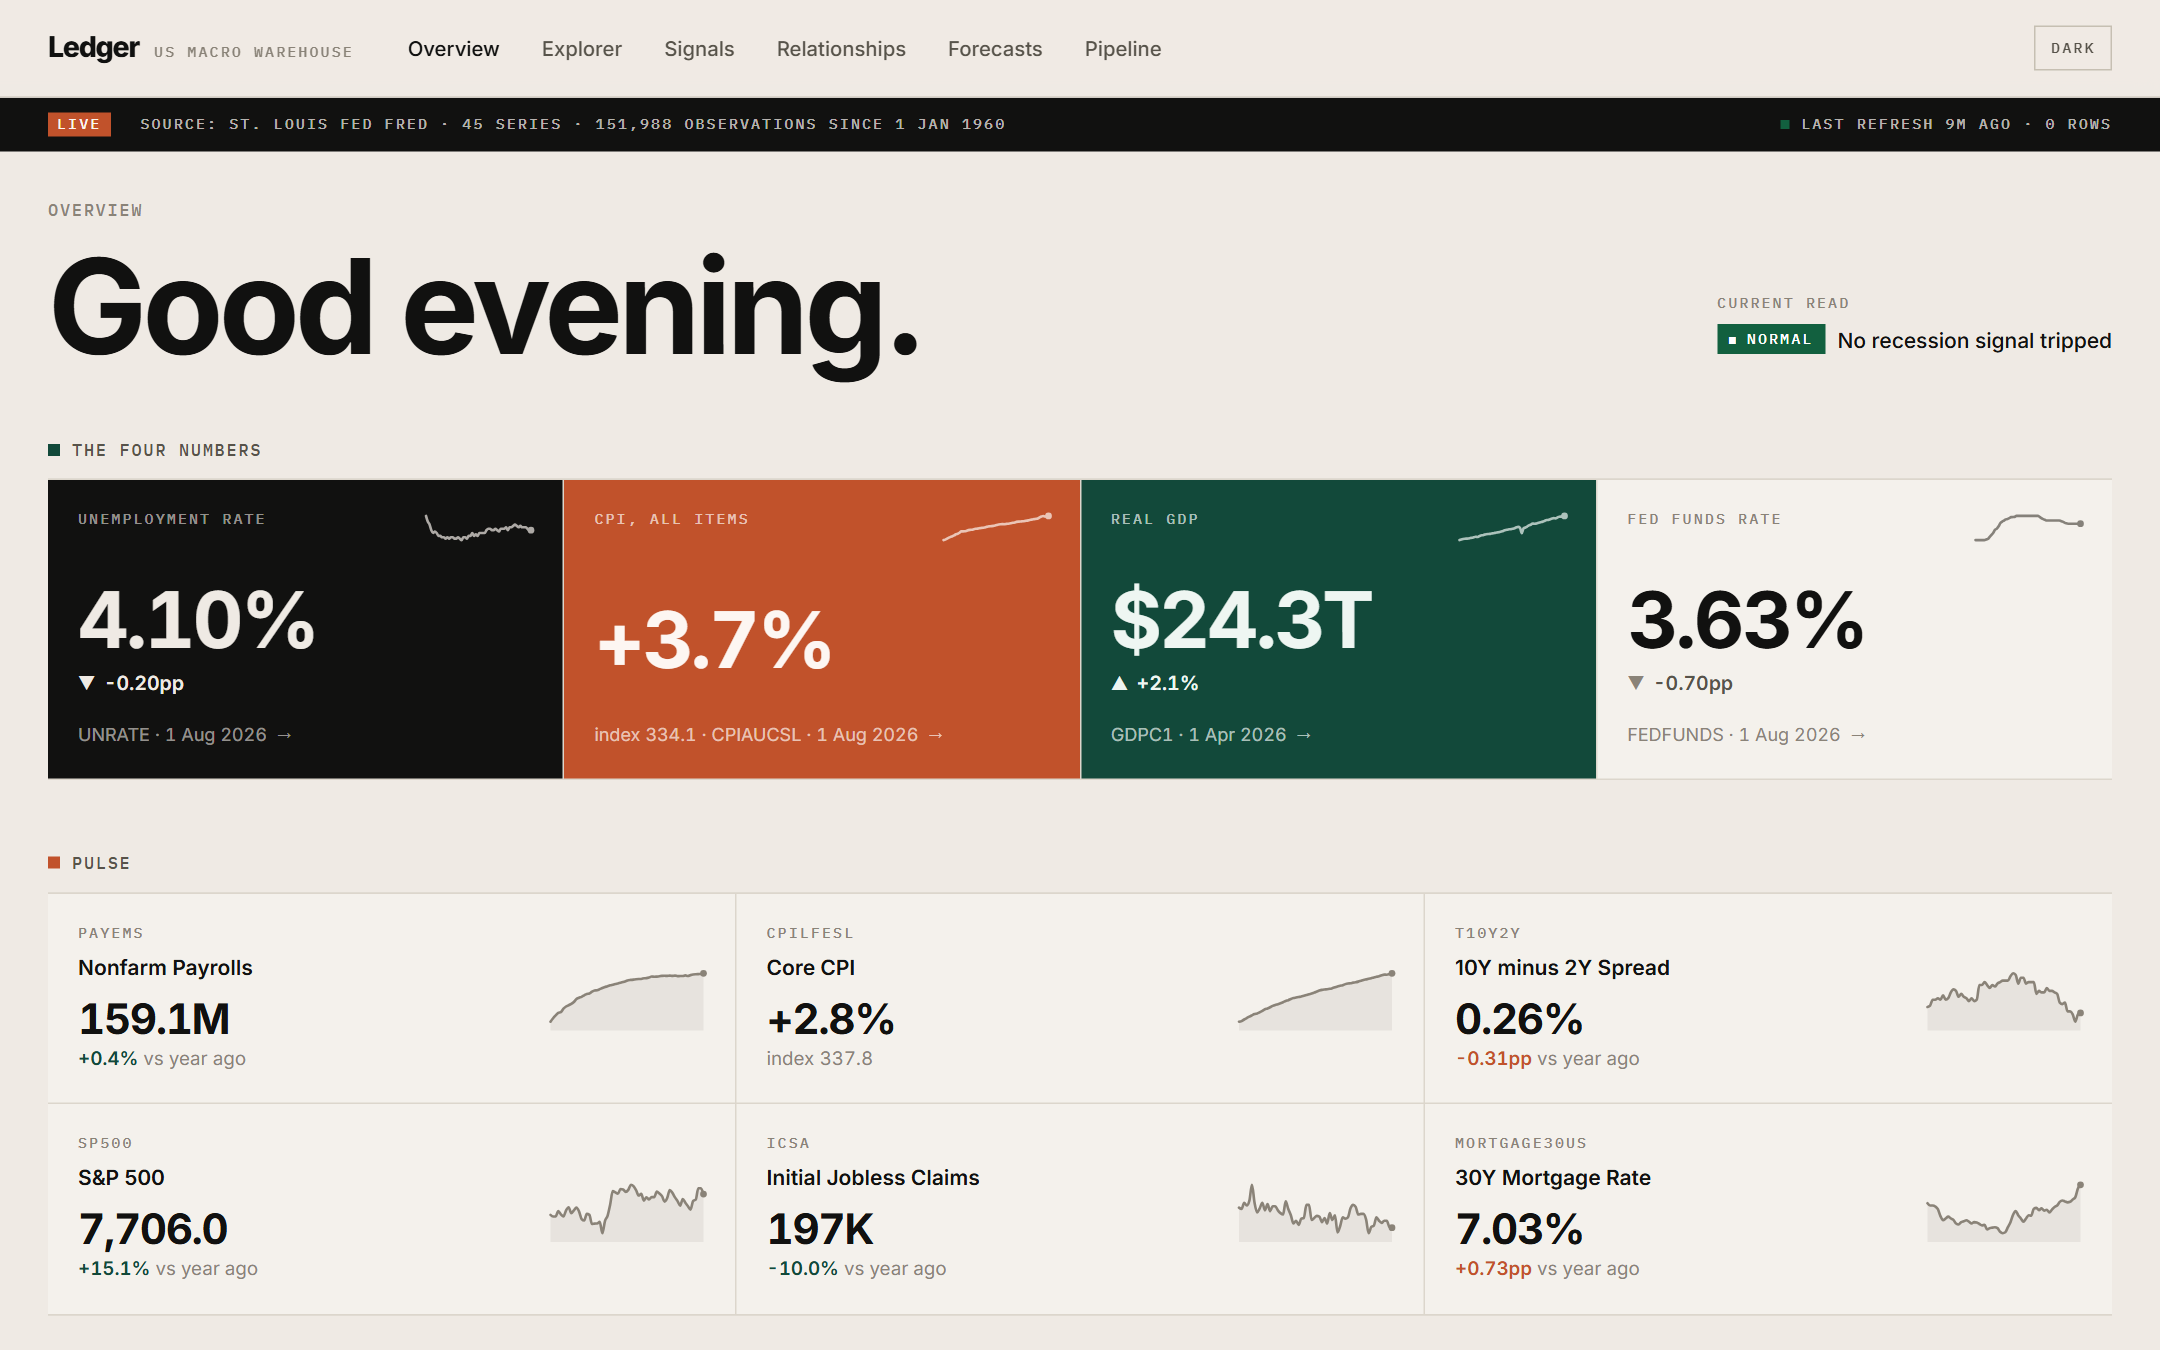
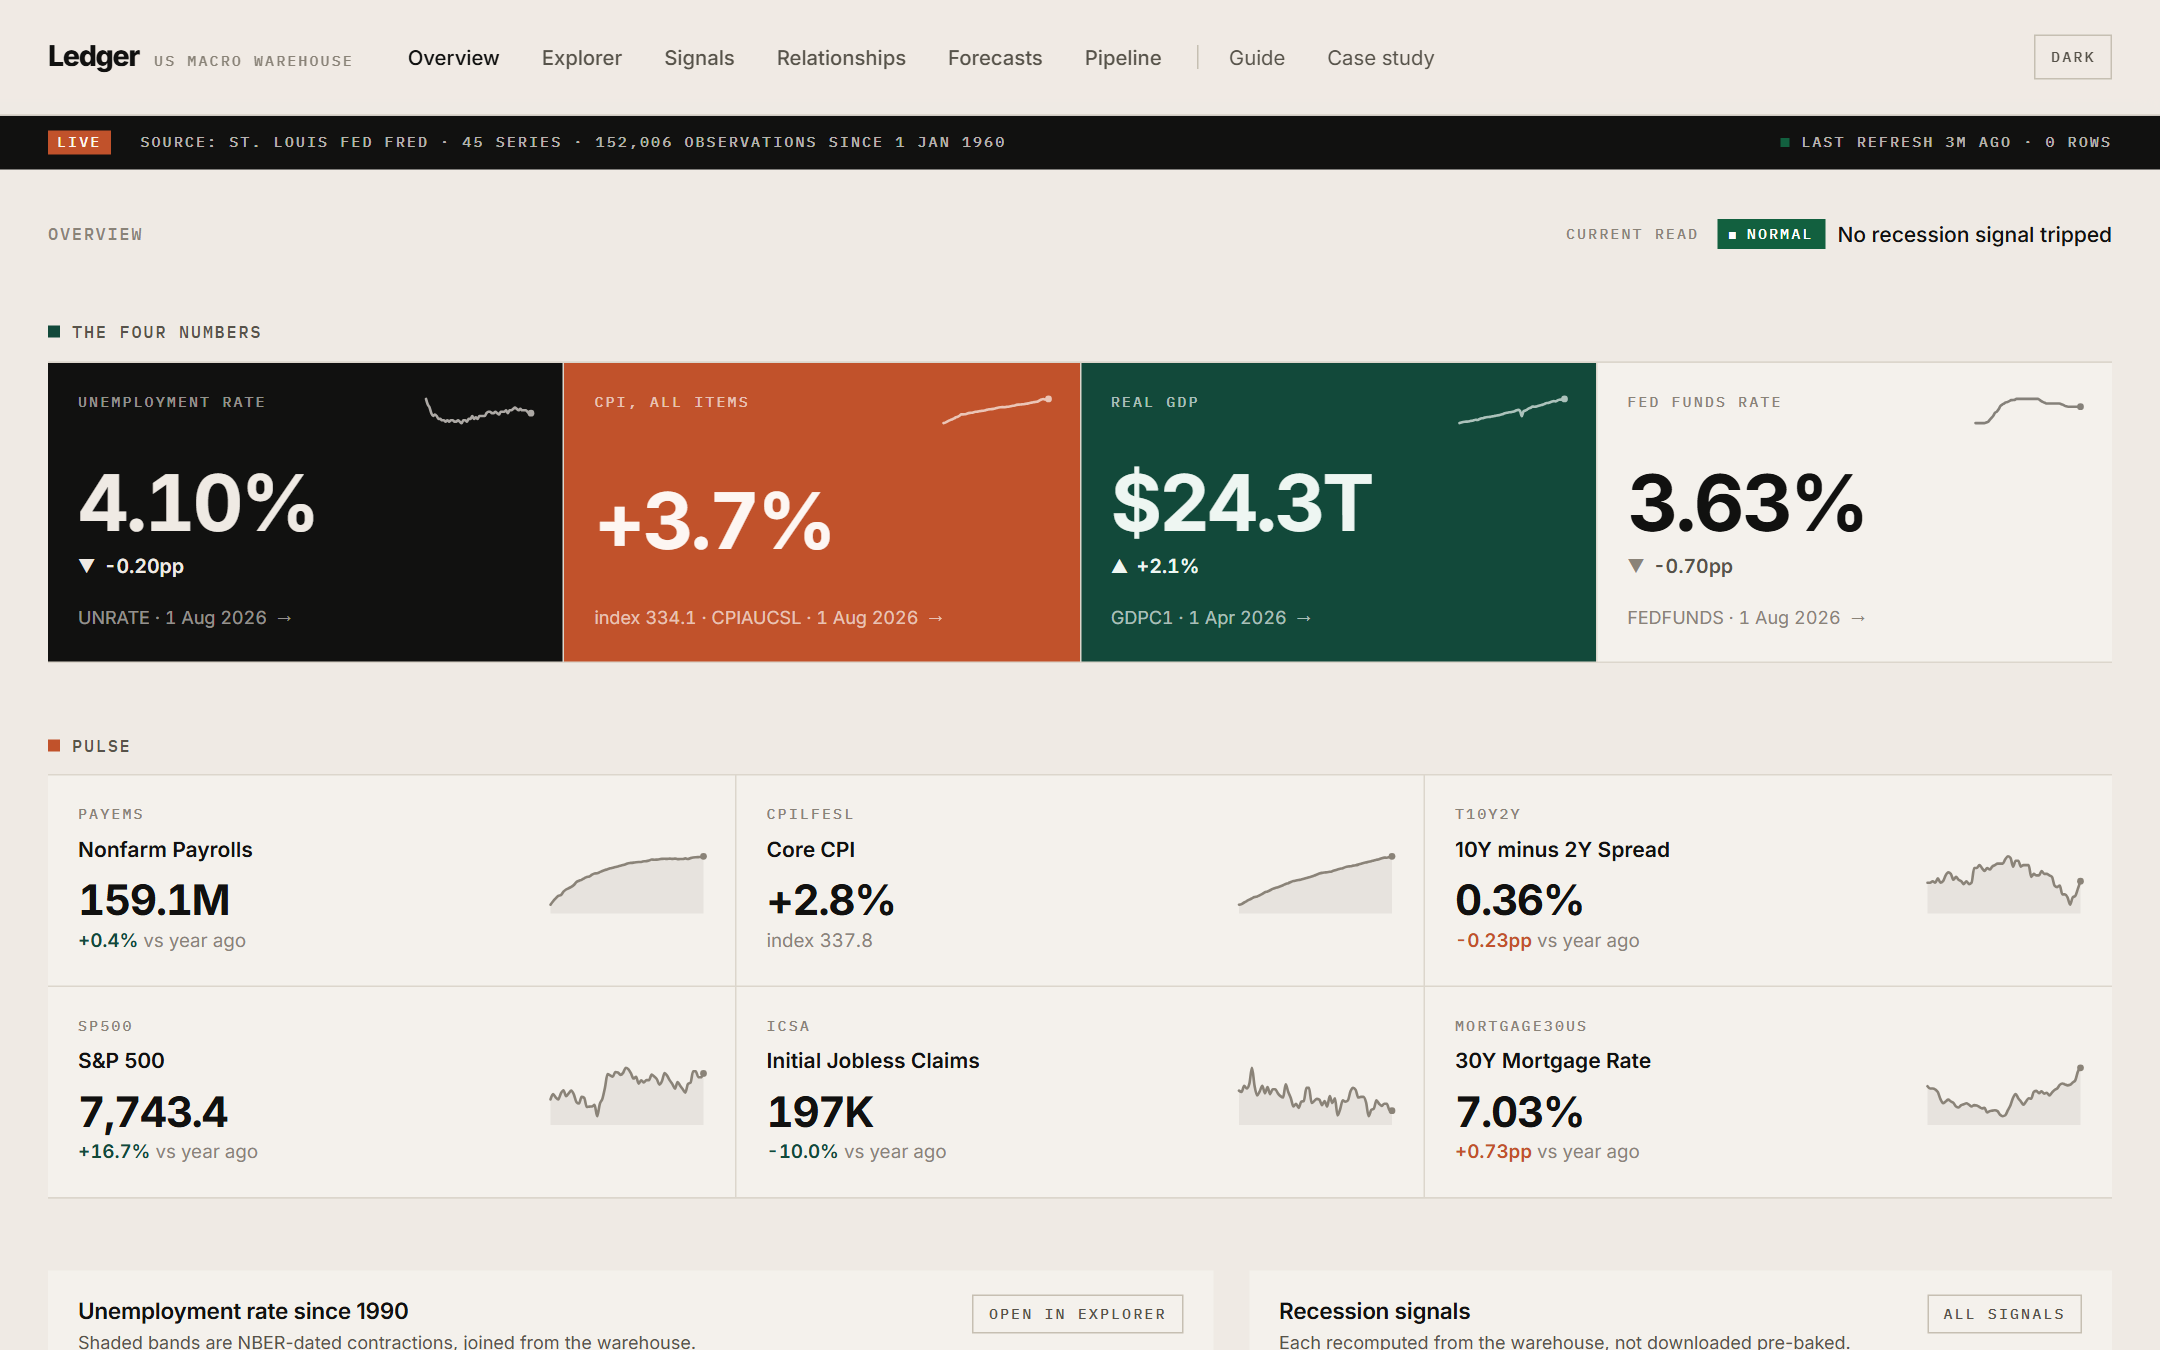
docs: lead with the live deployment
The README documented local setup only, so a visitor had to read the whole
thing to discover there is a working deployment. The live links now sit
above the fold, with a short section on how it is hosted and why the refresh
runs on a schedule rather than a worker.

Screenshots regenerated from the live site. The committed ones predated the
removal of the time-of-day greeting, so the hero image showed a UI element
that no longer exists.

diff --git a/README.md b/README.md
@@ -1,5 +1,7 @@
 # Ledger — a US macro data warehouse
 
+### **[→ See it running](https://ledger-web-8toj.onrender.com)**  ·  [API](https://ledger-api-9e0s.onrender.com/docs)
+
 A scheduled pipeline that pulls 45 curated series from the St. Louis Fed's FRED
 API into Postgres, derives a second layer of analytics on top of them, and
 serves the result as an interactive dashboard.
@@ -9,7 +11,35 @@ end: the loader records every run, the analytics pass rebuilds its tables inside
 a single transaction, the API only ever reads, and the dashboard shows where its
 numbers came from and how stale they are.
 
-![Overview](docs/screenshots/overview.png)
+[![Overview](docs/screenshots/overview.png)](https://ledger-web-8toj.onrender.com)
+
+**New to the numbers?** The dashboard's own
+[Guide](https://ledger-web-8toj.onrender.com/guide) explains how to read every
+chart and what the vocabulary means, with no economics background assumed. The
+[Case study](https://ledger-web-8toj.onrender.com/case-study) covers the
+engineering — architecture, the decisions and their trade-offs — with its
+figures read live from the warehouse.
+
+---
+
+## Running live
+
+| | |
+|---|---|
+| **Dashboard** | [ledger-web-8toj.onrender.com](https://ledger-web-8toj.onrender.com) — static, always on |
+| **API** | [ledger-api-9e0s.onrender.com](https://ledger-api-9e0s.onrender.com/docs) — FastAPI, OpenAPI docs at `/docs` |
+| **Database** | Neon Postgres, co-located with the API in us-east-2 |
+| **Refresh** | GitHub Actions, weekday mornings — no always-on worker |
+
+The refresh job is a pure function of the database, so it needs no long-lived
+process: a scheduled runner does the same work a cron container would, for
+nothing. The one write endpoint is disabled unless an `ADMIN_TOKEN` is set, so
+the public deployment exposes no write surface at all.
+
+*The API sleeps after 15 minutes idle on its free tier; an uptime ping keeps it
+warm. That ping deliberately hits `/ping`, which does not touch the database —
+pinging `/health` would keep a scale-to-zero database awake around the clock to
+serve nobody.*
 
 ---
 
